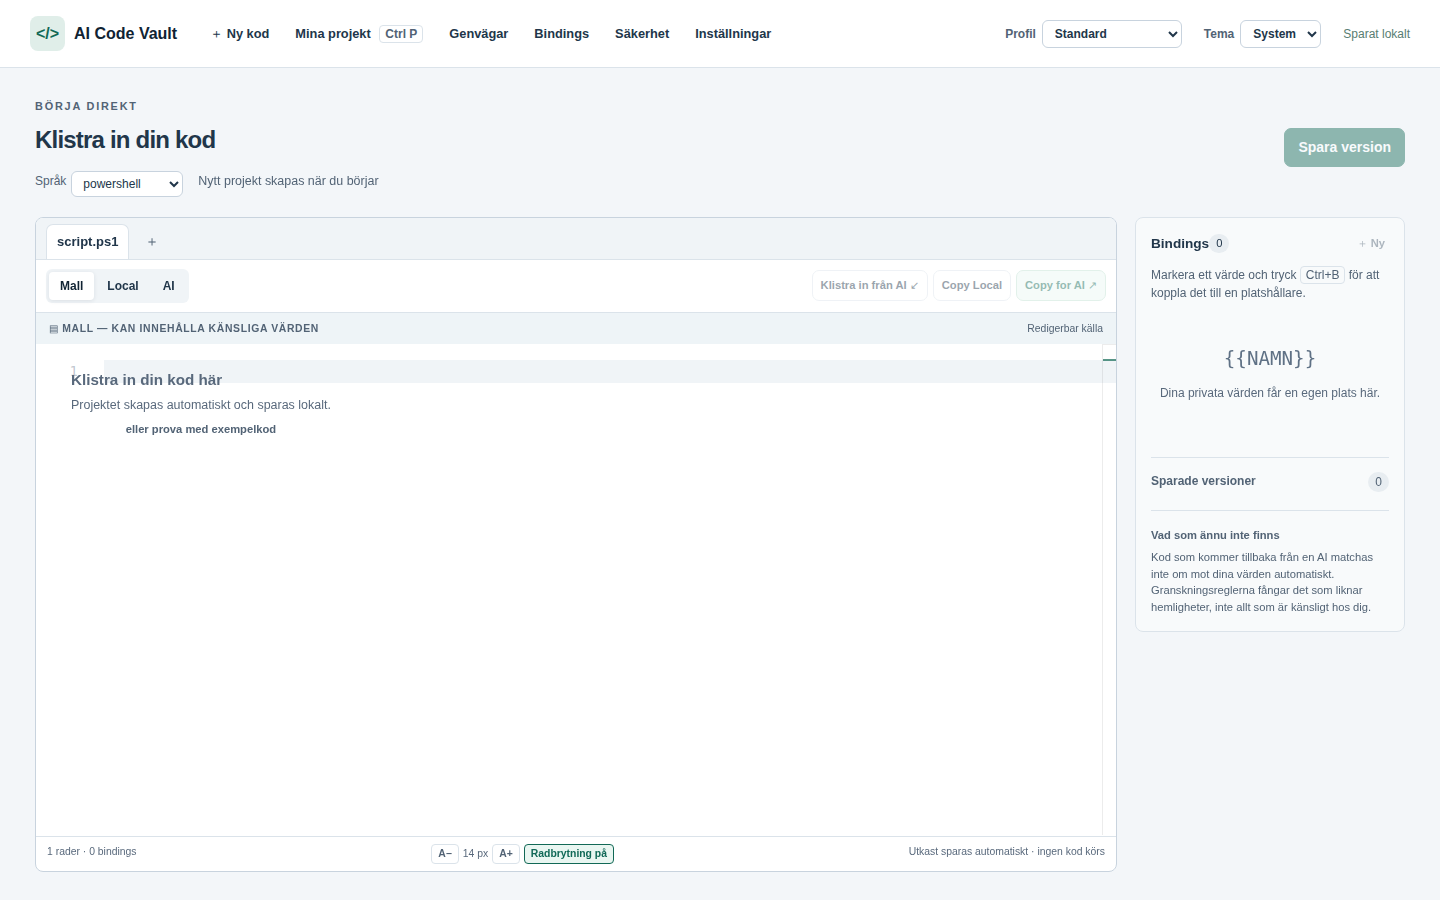
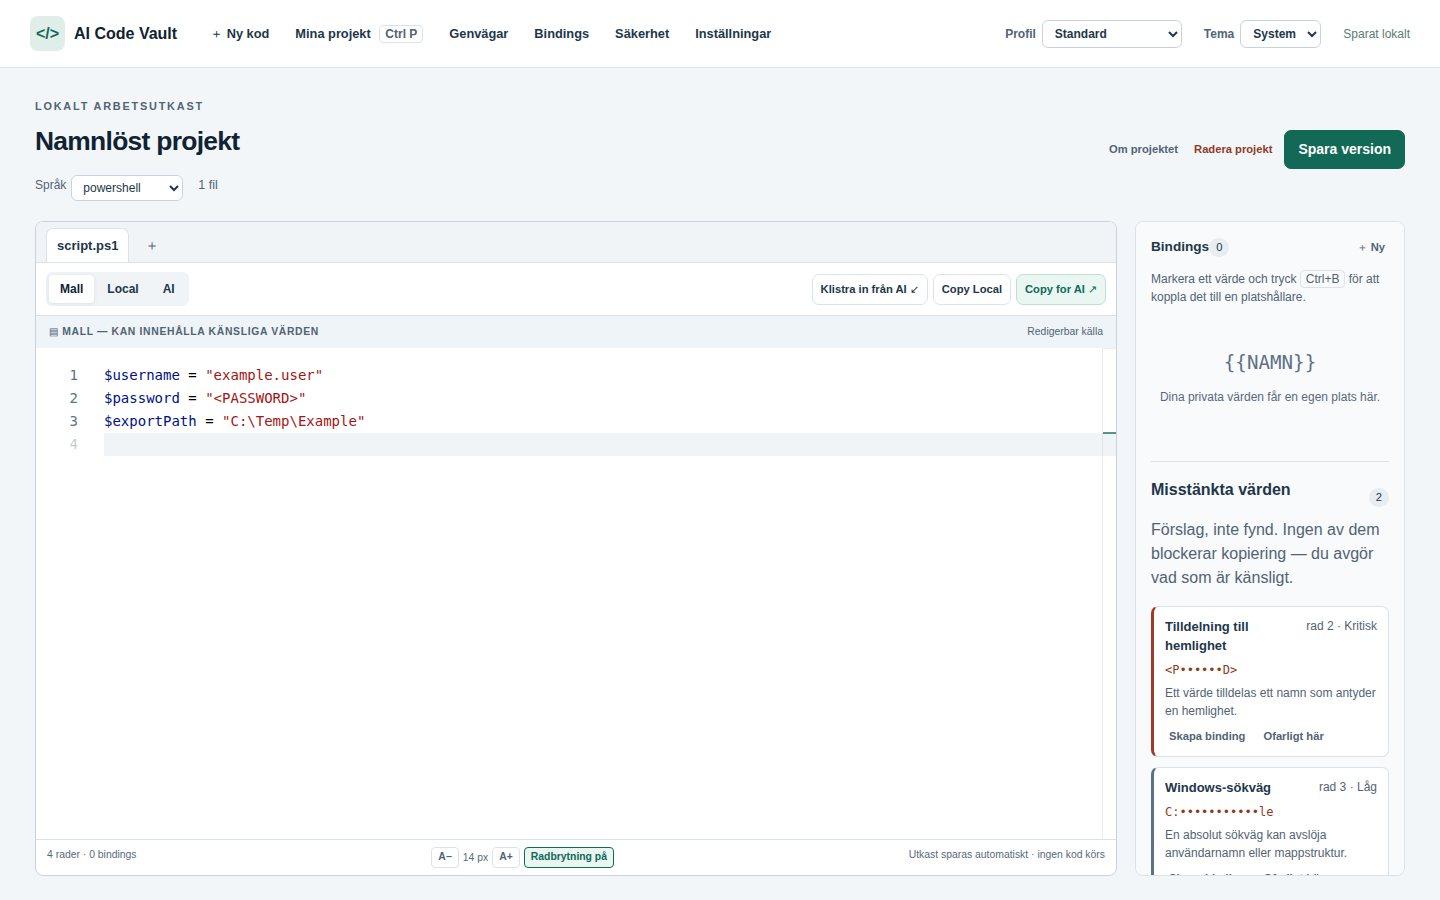
Rätta rapportens P0-fynd
Sex fynd med högst användarpåverkan ur UX-AUDIT.md. Vart och ett verifierat
i webbläsaren före och efter.

AI-vyns banderoll (F-2.1) påstod "SANERAD" utan villkor, i den starkaste
gröna ytan i editorn. Med noll bindings är AI-projektionen byte-identisk
med mallen, så friskintyget stod rakt ovanför osanerade hemligheter. Den
räknar nu: "SANERAD · 1 värde ersatt" i accentgrönt, eller "INGET ERSATT
ÄNNU" på varningsgult. Uppmätt: #fff5df respektive #126956.

"?" nådde aldrig kodeditorn (A.1). Monaco 0.56 tar emot inmatning genom en
EditContext på en div, inte en textarea, så vakten som testade taggnamn
rapporterade "skriver inte" mitt i koden och tecknet öppnade genvägsmodalen
i stället. Vakten känner nu igen redigerbara ytor. Före: koden blev
"$x = 1" och en modal öppnades. Efter: "$x = 1?", ingen modal.

Tab är fortfarande indrag i Monaco och flyttar inte fokus (A.2). WCAG 2.1.2
tillåter det bara om vägen ut anges där fällan är, så editorns ariaLabel
säger nu Ctrl+M, och kortkommandolistan tar upp det. Beteendet är oförändrat
— det som saknades var att någonstans nämna utvägen.

Exempelknappen i tomma läget gick inte att klicka (F-1.1). .paste-prompt är
pointer-events:none så klick ska nå editorn under, men knappen ärvde det och
Monacos .view-lines låg ovanpå. README beskriver den som ett av tre sätt att
börja. Före: klicket timeoutade, editorn tom. Efter: 83 tecken infogade.

Hela dokumentet scrollade i sidled vid 768px (F-0.1). Topbaren wrappade
[…]

diff --git a/src/ui/App.tsx b/src/ui/App.tsx
@@ -284,13 +284,21 @@ export function App({ storage }: { storage: StorageProvider }) {
     createBinding({ text: value, start: finding.start, end: finding.end, line: finding.line,
       lineBefore: template.slice(template.lastIndexOf('\n', finding.start) + 1, finding.start) }, finding);
   }
+  /** Report F-2.7. One click on a 68×21 px button silenced a finding for good — in the panel and
+   * in the copy dialog, which filters on the same set. There was no confirmation, no undo and no
+   * list of what had been dismissed, while `deleteDismissal` sat implemented in the storage layer
+   * without a single caller. The delete is what the other three destructive actions already do. */
   async function dismissFinding(finding: Finding) {
     const current = controller.getSnapshot();
     if (!current.session.project || !current.settings) return;
-    await storage.saveDismissal({ projectId: current.session.project.id, fingerprint: finding.fingerprint,
+    const projectId = current.session.project.id;
+    await storage.saveDismissal({ projectId, fingerprint: finding.fingerprint,
       ruleId: finding.ruleId, reason: '', createdAt: new Date().toISOString(), deviceId: current.settings.deviceId });
     refreshDismissals();
-    setNotice(`${finding.ruleName} avfärdad i det här projektet.`);
+    offerUndo({ label: t.findings.dismissed(finding.ruleName), restore: async () => {
+      await storage.deleteDismissal(projectId, finding.fingerprint);
+      refreshDismissals();
+    } });
   }
   function showIssue(issue: LocatedIssue) {
     // The offset belongs to the projection that produced it, so switch there before jumping.
@@ -516,7 +524,12 @@ export function App({ storage }: { storage: StorageProvider }) {
   useEffect(() => {
     const key = (e: KeyboardEvent) => {
       if (document.querySelector('dialog[open]')) return;
-      const typing = e.target instanceof HTMLElement && /^(INPUT|TEXTAREA)$/.test(e.target.tagName);
+      // Report A.1. Monaco 0.56 takes input through an EditContext on a plain <div>, not a
+      // textarea, so a tag-name test reported "not typing" inside the code editor: `?` opened the
+      // shortcut modal and never reached the code, where it is ordinary PowerShell and regex.
+      const target = e.target instanceof HTMLElement ? e.target : null;
+      const typing = Boolean(target && (/^(INPUT|TEXTAREA)$/.test(target.tagName) || target.isContentEditable
+        || target.closest('.monaco-editor, .plain-editor, [role="textbox"]')));
       if (match(e, 'help') && !typing) { e.preventDefault(); setShowShortcuts(true); return; }
       if (match(e, 'projects')) { e.preventDefault(); openDrawer(); }
       if (match(e, 'copyAi')) { e.preventDefault(); void copy('ai'); }
@@ -564,7 +577,9 @@ export function App({ storage }: { storage: StorageProvider }) {
             hasText={Boolean(template.trim())} localIssues={local.issues} aiIssues={ai.issues} blockedCount={issues.length}
             canCopySelection={mode === 'template' && Boolean(selected)} onCopy={which => void copy(which)}
             onCopySelection={() => void copySelection()} />
-          <div className="view-banner" key={mode}><strong>{mode === 'template' ? t.workspace.bannerTemplate : mode === 'local' ? t.workspace.bannerLocal : t.workspace.bannerAi}</strong><span>{mode === 'template' ? t.workspace.editableSource : t.workspace.readOnlyProjection}</span></div>
+          {/* Report F-2.1. The AI banner claimed "SANERAD" unconditionally, in the strongest green
+              in the editor, directly above unreplaced secrets whenever nothing was bound. */}
+          <div className={`view-banner ${mode === 'ai' && !ai.used.length ? 'nothing-replaced' : ''}`} key={mode}><strong>{mode === 'template' ? t.workspace.bannerTemplate : mode === 'local' ? t.workspace.bannerLocal : ai.used.length ? t.workspace.bannerAi(ai.used.length) : t.workspace.bannerAiNothing}</strong><span>{mode === 'template' ? t.workspace.editableSource : t.workspace.readOnlyProjection}</span></div>
           {mode === 'local' && <div className="local-tools"><button onClick={() => { setMode('template'); setFocusLine(currentLine.current); }}>{t.workspace.editAsTemplate}</button><button onClick={() => setShowSecrets(!showSecrets)}>{showSecrets ? t.workspace.hideValues : t.workspace.showValues}</button></div>}
           <div className="editor-body" id="kodvy" role="tabpanel" aria-labelledby={`vy-${mode}`}>{!template && mode === 'template' && <div className="paste-prompt"><strong>{t.workspace.pasteHere}</strong><span>{t.workspace.pasteHereHint}</span>{samples[language] && <button className="text-button" onClick={() => controller.changeText(samples[language]!)}>{t.workspace.trySample}</button>}</div>}
             <Editor key="primary-editor" documentKey={`${session.key}:${session.activeFileId}:${mode}`} active={workspaceVisible} autoFocus value={visible} language={language} readOnly={busy || mode !== 'template'} onChange={text => { noteLanguage(text); controller.changeText(text); }} onBinding={createBinding}

diff --git a/src/ui/text.ts b/src/ui/text.ts
@@ -69,7 +69,11 @@ export const sv = {
     draftFooter: 'Utkast sparas automatiskt · ingen kod körs',
     bannerTemplate: '▤ MALL — KAN INNEHÅLLA KÄNSLIGA VÄRDEN',
     bannerLocal: '⚠ LOCAL — INNEHÅLLER RIKTIGA VÄRDEN',
-    bannerAi: '◇ AI — SANERAD',
+    /** Only says sanitised when something actually was. With no bindings the AI projection is
+     * byte-identical to the template, and the solid accent banner then sat above real secrets
+     * telling the reader they had been dealt with. */
+    bannerAi: (replaced: number) => `◇ AI — SANERAD · ${replaced === 1 ? '1 värde ersatt' : `${replaced} värden ersatta`}`,
+    bannerAiNothing: '◇ AI — INGET ERSATT ÄNNU',
     editableSource: 'Redigerbar källa',
     readOnlyProjection: 'Skrivskyddad projektion',
     editAsTemplate: 'Redigera som mall',
@@ -376,6 +380,7 @@ export const sv = {
   },
   findings: {
     title: 'Misstänkta värden',
+    dismissed: (rule: string) => `${rule} är avfärdad i det här projektet.`,
   },
   ingest: {
     tier1: 'Platshållare kvar',

diff --git a/src/ui/styles.css b/src/ui/styles.css
@@ -325,9 +325,14 @@ kbd {
   display: flex;
   flex-direction: column;
 }
+/* Report F-0.1. Wrapping only started at 750px, so between there and roughly 1000px the bar could
+   not break and ran off the side: scrollWidth was 1122 in a 768px viewport on every route, taking
+   the profile picker, the theme picker and the save status off screen. Wrapping by default lets it
+   break when it needs to rather than at a guessed width. */
 .topbar {
   min-height: 68px;
   display: flex;
+  flex-wrap: wrap;
   gap: 20px;
   align-items: center;
   border-bottom: 1px solid var(--border);
@@ -608,6 +613,13 @@ main {
 .mode-ai .view-banner {
   background: var(--accent);
   color: var(--accent-fg);
+}
+/* Nothing was substituted, so the projection is the template. Green here would be a clean bill of
+   health the app has no basis for. */
+.mode-ai .view-banner.nothing-replaced {
+  background: var(--warn-surface);
+  color: var(--warn-text);
+  border-bottom: 1px solid var(--warn-border);
 }
 .local-tools {
   display: flex;

diff --git a/src/ui/editor/CodeEditor.tsx b/src/ui/editor/CodeEditor.tsx
@@ -82,7 +82,10 @@ export function CodeEditor(props: EditorProps) {
       scrollBeyondLastLine: false, wordWrap: callbacks.current.wordWrap === false ? 'off' : 'on', padding: { top: 16 }, contextmenu: true,
       links: false, hover: { enabled: 'on', delay: 250 }, unicodeHighlight: { ambiguousCharacters: false },
       quickSuggestions: false, parameterHints: { enabled: false }, renderValidationDecorations: 'off',
-      ariaLabel: 'Kodredigerare', accessibilitySupport: 'auto' });
+      // Report A.2. Tab indents here and never moves focus. WCAG 2.1.2 allows that only if the way
+      // out is advised where the trap is, and the label is the one thing read on entering it.
+      ariaLabel: 'Kodredigerare. Tab gör indrag — tryck Ctrl+M för att låta Tab flytta fokus vidare.',
+      accessibilitySupport: 'auto' });
     editor.current = instance;
     const decorations = instance.createDecorationsCollection();
     const decorate = () => {

diff --git a/src/ui/code-first.css b/src/ui/code-first.css
@@ -25,6 +25,9 @@
   align-items: center;
   gap: 4px;
   flex: 1;
+  /* Without this the nav refuses to shrink below its content and pushes the rest of the bar out
+     instead of letting it wrap. */
+  min-width: 0;
 }
 .top-navigation button {
   border: 0;
@@ -137,6 +140,20 @@
 }
 .paste-prompt span {
   font-size: 0.78rem;
+}
+/* Report F-1.1. The prompt is pointer-events:none so clicks reach the editor underneath, but the
+   button inherited it and Monaco's .view-lines sits on top: the empty state's only affordance
+   could not be clicked at all, not even with a forced click. */
+.paste-prompt button {
+  pointer-events: auto;
+  justify-self: start;
+  margin-top: 10px;
+  padding: 8px 13px;
+  border: 1px solid var(--accent-border);
+  border-radius: 6px;
+  background: var(--accent-surface);
+  color: var(--accent-text);
+  font-size: 0.8125rem;
 }
 .code-first .code-editor {
   min-height: 0;

diff --git a/src/ui/shortcuts.ts b/src/ui/shortcuts.ts
@@ -28,6 +28,9 @@ export const editorShortcuts: { keys: string[]; label: string; note?: string }[]
   { keys: ['Ctrl+F'], label: 'Sök i koden', note: 'Editorns egen sökruta, inte webbläsarens.' },
   { keys: ['Ctrl+H'], label: 'Sök och ersätt' },
   { keys: ['{{'], label: 'Föreslå platshållarnamn', note: 'Skriv två klammer så listas dina bindings.' },
+  // Report A.2. Tab indents inside Monaco and never moves focus, so a keyboard user who tabbed in
+  // could not tab out. The way out exists; it was listed nowhere, which is what made it a trap.
+  { keys: ['Ctrl+M'], label: 'Låt Tab lämna editorn', note: 'Växlar mellan att Tab gör indrag och att Tab flyttar fokus vidare.' },
 ];
 
 /** Matches a keyboard event against a shortcut. Kept away from the components so the bindings can
